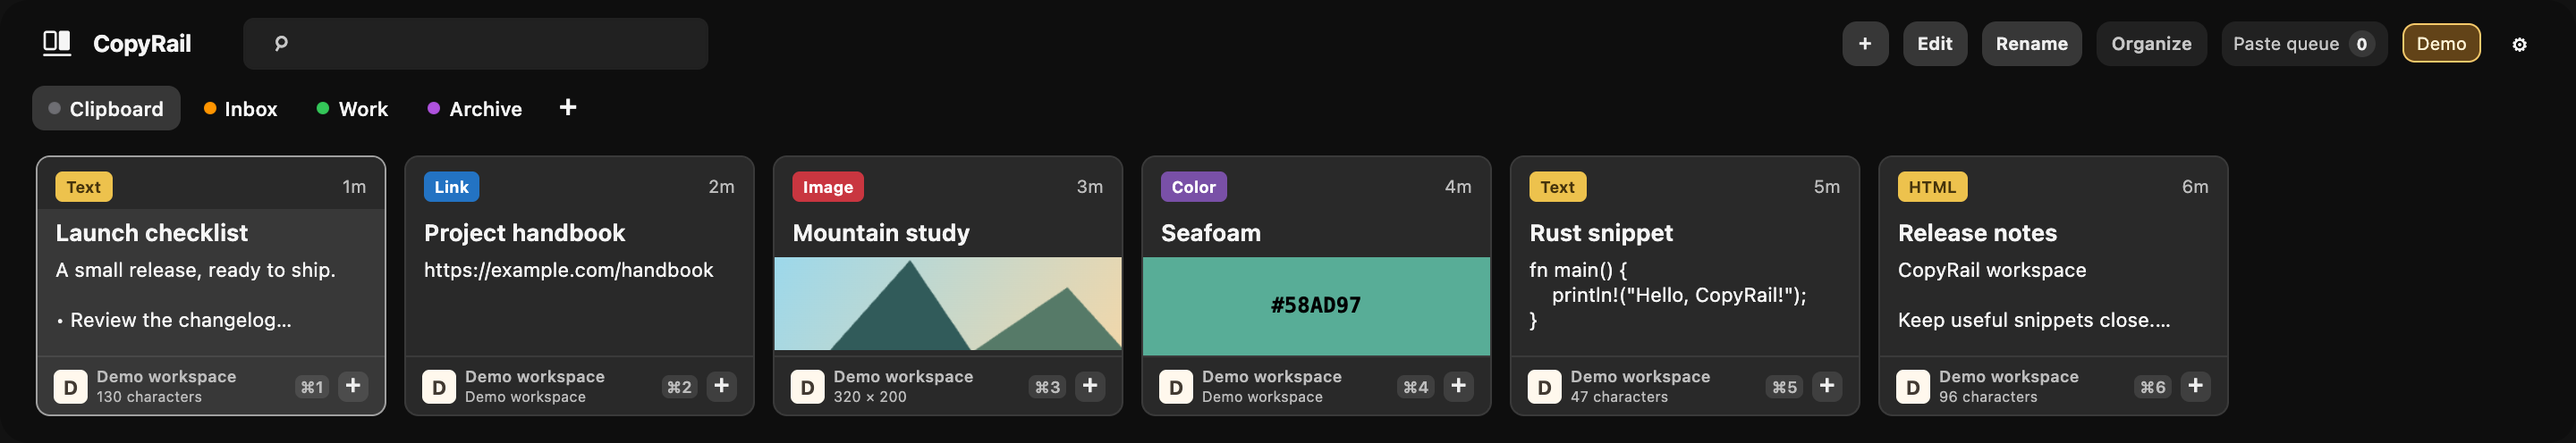
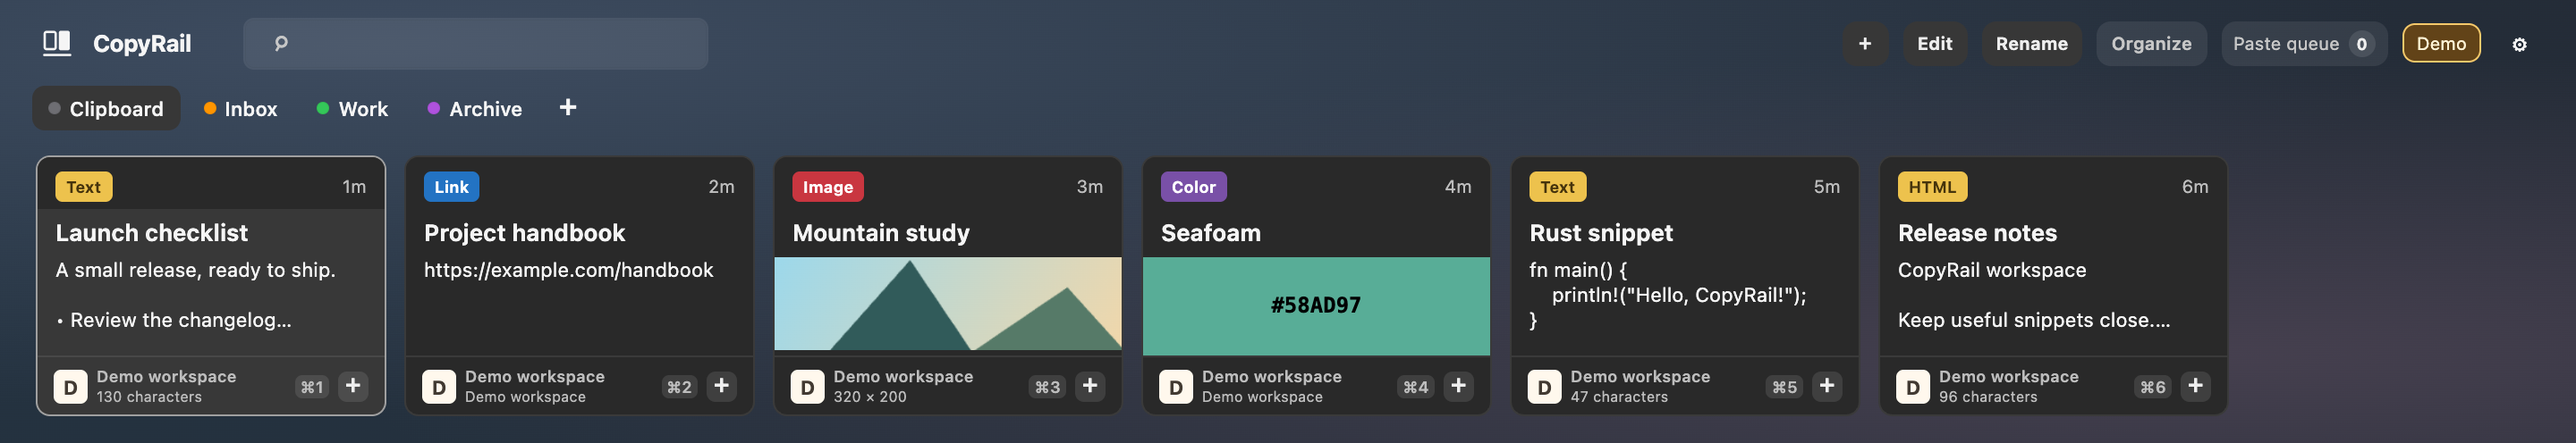
Show README demos at 100 percent background transparency

diff --git a/docs/images/README.md b/docs/images/README.md
@@ -2,7 +2,7 @@
 
 These images are rendered from CopyRail's compiled Leptos interface using the repository's isolated browser fixture. All cards, board names and source labels are synthetic. The mountain illustration comes from the existing canvas fixture; no personal images, clipboard history, native desktop screenshots or third-party artwork are included.
 
-The capture script selects **English using the production Settings → General → Language control**. It does not translate DOM nodes or replace interface labels. The same saved language preference is available in the shipping desktop app. Layout, styles and interactions come from the compiled UI. Capture does not edit generated application assets, write to the system clipboard, register shortcuts or launch a collecting desktop instance. The Demo badge reflects this isolation.
+The capture script selects **English using Settings → General → Language** and **100% using Settings → General → Background transparency**, through the production controls. Both values are saved in the isolated fixture. A muted synthetic gradient sits behind the transparent app so the see-through surfaces remain visible in the README. It does not translate DOM nodes or replace interface labels. The same saved language preference is available in the shipping desktop app. Layout, styles and interactions come from the compiled UI. Capture does not edit generated application assets, write to the system clipboard, register shortcuts or launch a collecting desktop instance. The Demo badge reflects this isolation.
 
 After building the frontend, with Node.js 22+ and Google Chrome in its standard macOS location:
 
@@ -10,6 +10,6 @@ After building the frontend, with Node.js 22+ and Google Chrome in its standard 
 node scripts/capture-readme-ui.mjs
 ```
 
-The script checks that visible app copy is English, screenshots the rail, compact preview, language settings and history settings, and verifies that compiled asset hashes are unchanged. Its report is written to `target/ui-verification/readme-screenshots-report.json`. Browser screenshots do not establish native paste, permissions, window behavior or VoiceOver acceptance.
+The script checks that visible app copy is English, that the saved transparency is 100% and that each captured panel actually has a transparent background, screenshots the rail, compact preview, language settings and history settings, and verifies that compiled asset hashes are unchanged. Its report is written to `target/ui-verification/readme-screenshots-report.json`. Browser screenshots do not establish native paste, permissions, window behavior or VoiceOver acceptance.
 
-Native frosted-glass compositing is checked in the macOS app separately. These browser captures show the interface and synthetic content, not a captured desktop backdrop.
+Native frosted-glass compositing is checked in the macOS app separately. These browser captures show the interface at 100% transparency over a synthetic backdrop. They do not reproduce or measure the native macOS blur/compositing effect, and do not capture the user's desktop.

diff --git a/README.md b/README.md
@@ -8,7 +8,7 @@ CopyRail keeps the things you copy in a searchable card rail. Find a snippet, pr
 
 ![CopyRail clipboard rail with sample notes, a link, an illustration, a color and code](docs/images/clipboard-dark.png)
 
-*English interface with synthetic demo content, rendered using the built-in language setting. [Screenshot details](docs/images/README.md).*
+*English interface at **100% background transparency**, with synthetic demo content and a synthetic backdrop. [Screenshot details](docs/images/README.md).*
 
 ## What you can do
 
@@ -18,7 +18,7 @@ CopyRail keeps the things you copy in a searchable card rail. Find a snippet, pr
 - **Reuse more than text.** Work with plain text, HTML, links, images, files, PDFs and colors.
 - **Paste one item at a time.** Add cards to a paste queue for filling several fields in a chosen order. Plain-text output is available too.
 - **Choose your language.** By default, CopyRail follows your system language: Chinese uses Simplified Chinese; other languages use English. Choose System default, English or Simplified Chinese in Settings → General → Language. Manual choices are saved immediately and preserved on launch.
-- **Adjust the glass background.** Settings → General → Background transparency ranges from an opaque surface to clear macOS frosted glass. The default is 50%; changes save automatically across the rail, settings and preview, while text and controls stay solid. System reduced-transparency preferences take priority.
+- **Adjust the glass background.** Settings → General → Background transparency ranges from an opaque surface to clear macOS frosted glass. The default is 50%; the screenshots demonstrate 100%. Changes save automatically across the rail, settings and preview, while text and controls stay solid. System reduced-transparency preferences take priority.
 - **Choose where the rail opens.** Settings → General → Selection on open offers Latest item (default) or Last position. Last position remembers the selected card and browsing context across restarts; new captures do not change the remembered card. Missing items return to the latest history. The setting saves automatically and applies on the next invocation.
 - **Choose what stays.** Pause capture, exclude apps, set retention limits, and export or restore a local backup.
 - **Work from the keyboard.** Open the rail with `⇧⌘V`, navigate with the arrow keys, preview with `Space`, and copy with `⌘C`.

diff --git a/docs/verification.md b/docs/verification.md
@@ -2,6 +2,10 @@
 
 Snapshot: **2026-09-08**, source release **v0.1.0-mvp.1**. Platform checked locally: Apple Silicon macOS, Rust 1.98.0, Trunk 0.21.14. This record separates automated checks from native acceptance and distribution readiness.
 
+## README at 100% transparency (2026-09-10)
+
+The four README screenshots now select English and 100% background transparency through the production Settings controls, using the existing beta.23 compiled assets and synthetic clipboard content. A muted synthetic gradient behind the application makes transparent surfaces visible. The capture check passed: each frame retained the saved value 100, the production background-opacity value was zero, the captured panel background had zero alpha, visible app copy was English, and compiled asset hashes were unchanged. All four images were visually inspected. Both READMEs and the screenshot provenance document describe the demonstration setting and synthetic backdrop. These are browser demonstrations, not captures of native macOS vibrancy. This documentation-only update did not rebuild, reinstall or restart CopyRail, change the user's preferences, or rewrite the beta.23 delivery archive.
+
 ## Automatic settings and quiet search (2026-09-10)
 
 Local **beta.23** removes the Settings Save button and its footer. Language, opening position and appearance keep their existing immediate-save behavior. Login startup, compact layout and screen-sharing protection now save independently when toggled; failed writes restore that option and show an inline error. Each update merges only its field with the latest stored preferences. Login and sharing changes do not reposition the rail. Number fields and ignored-app lists save after a short typing pause through one serialized worker. Revisions prevent a slow response from overwriting newer text; closing Settings does not cancel an in-flight or debounced save. Invalid numbers (including the browser's incomplete numeric input state) and invalid bundle IDs preserve the saved preferences. Empty limits mean unlimited. Failed capture saves retain the draft and offer Retry. Restore is unavailable while these saves are pending.
